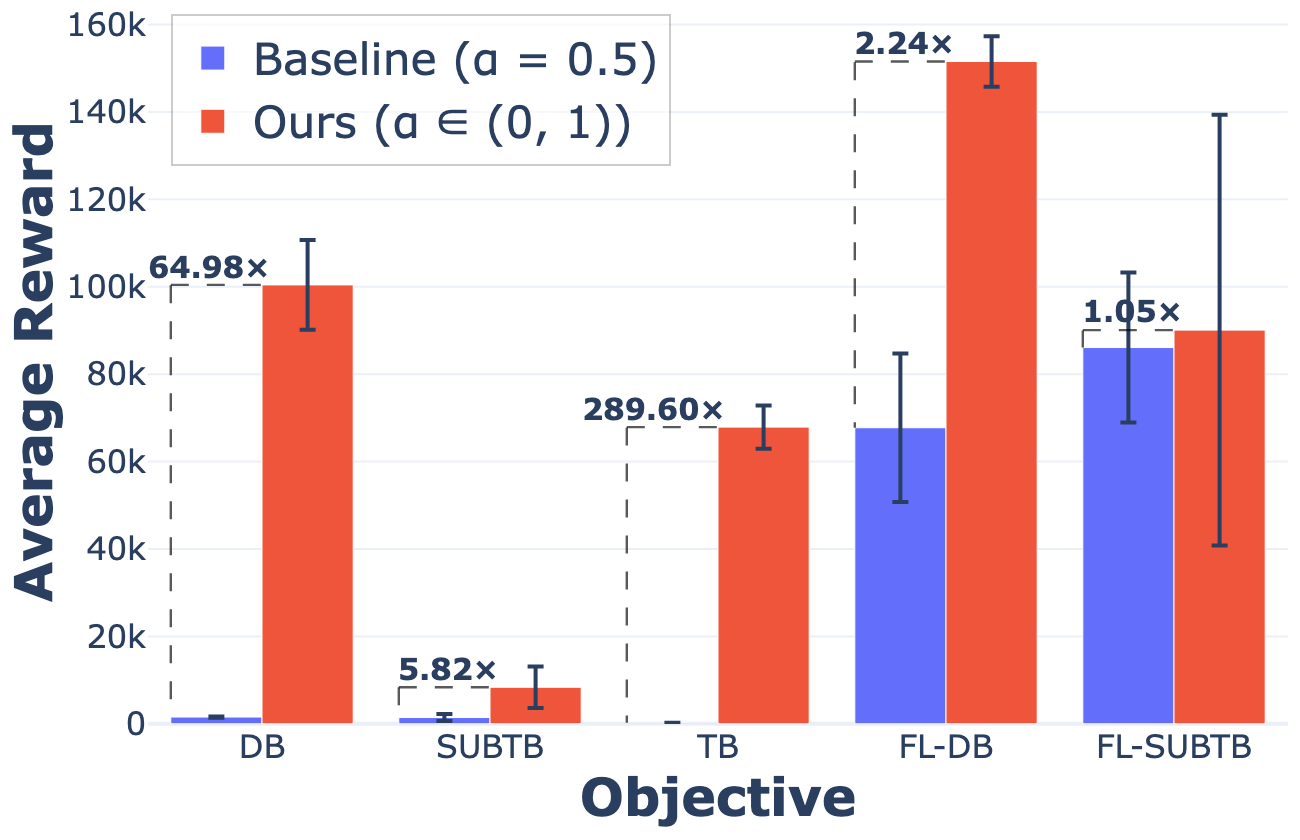
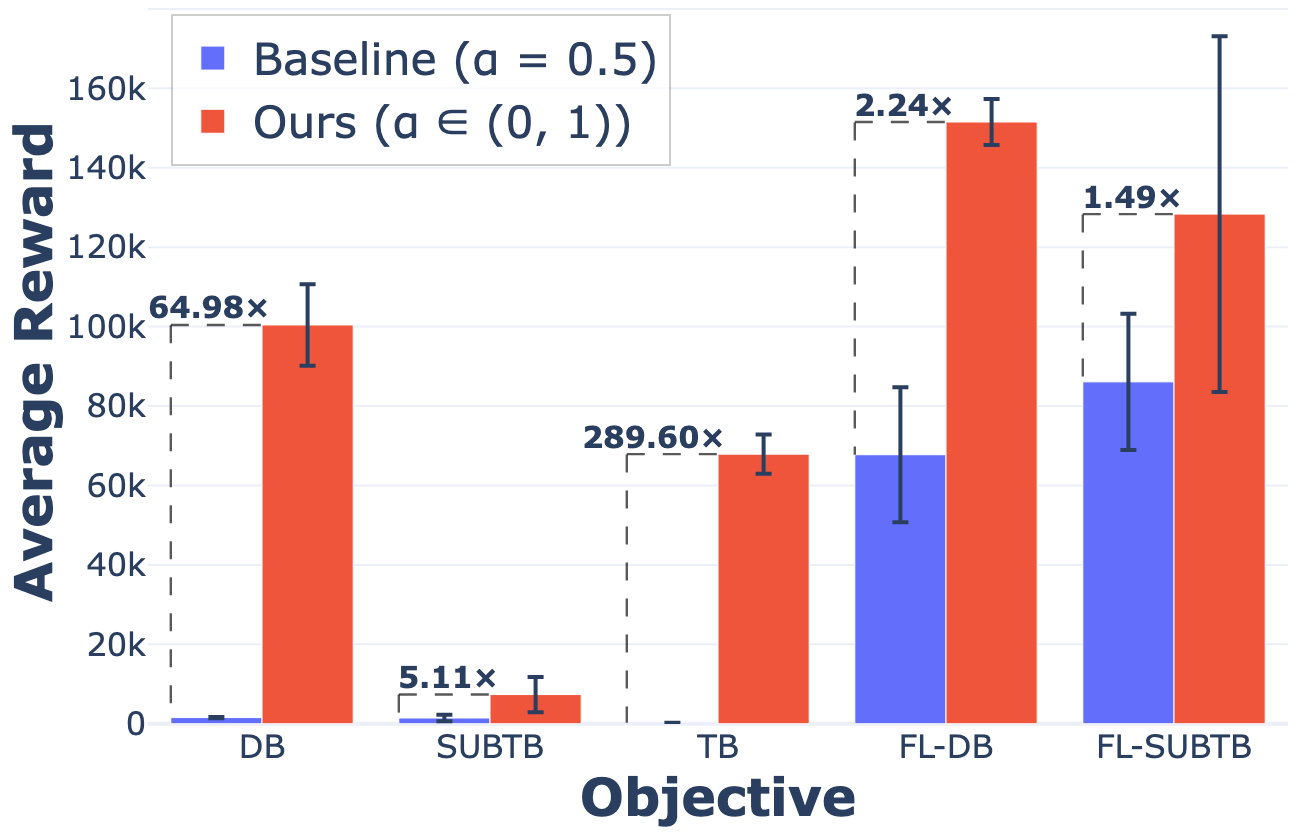
a-GFN: bug fix: best alpha

diff --git a/aGFN/process.py b/aGFN/process.py
@@ -498,7 +498,13 @@ def plot_alpha_compare_large(main_json_path='rebuttal_set_temp_old.json', json_p
     import plotly.io as pio
 
     # Load main objectives (db, fl-db, tb) from rebuttal_set_temp_old.json
-    chosen = {'db': {"eq": 0.5, "mix": 0.9}, 'fl-db': {"eq": 0.5, "mix": 0.9}, 'tb': {"eq": 0.5, "mix": 0.7}}
+    chosen = {
+        'db': {"eq": 0.5, "mix": 0.9},
+        'fl-db': {"eq": 0.5, "mix": 0.9},
+        'tb': {"eq": 0.5, "mix": 0.7},
+        'subtb': {"eq": 0.5, "mix": 0.8},
+        'fl-subtb': {"eq": 0.5, "mix": 0.7},
+    }
     agg_list = []
     try:
         import re
@@ -595,15 +601,18 @@ def plot_alpha_compare_large(main_json_path='rebuttal_set_temp_old.json', json_p
             df_json = df_json.dropna(subset=['objective', 'mean_R'])
             
             # Filter for chosen alphas
-            df_json_filtered = df_json[df_json['alpha'].isin([0.5, 0.9])]
+            json_alphas = {0.5, chosen['subtb']['mix'], chosen['fl-subtb']['mix']}
+            df_json_filtered = df_json[df_json['alpha'].isin(json_alphas)]
             
             # Add new objectives to chosen alphas (derive eq/mix from available alphas if needed)
             if not df_json_filtered.empty:
                 agg_json = df_json_filtered.groupby(['objective', 'alpha'])['mean_R'].agg(['mean', 'std']).reset_index()
                 agg_json.columns = ['objective', 'alpha', 'mean', 'std']
 
-                # Derive chosen alphas per json objective
+                # Derive chosen alphas per json objective (skip subtb/fl-subtb: fixed above)
                 for obj in agg_json['objective'].unique():
+                    if obj in ('subtb', 'fl-subtb'):
+                        continue
                     alphas = sorted(agg_json[agg_json['objective'] == obj]['alpha'].unique())
                     if len(alphas) >= 2:
                         eq_a, mix_a = alphas[0], alphas[-1]
